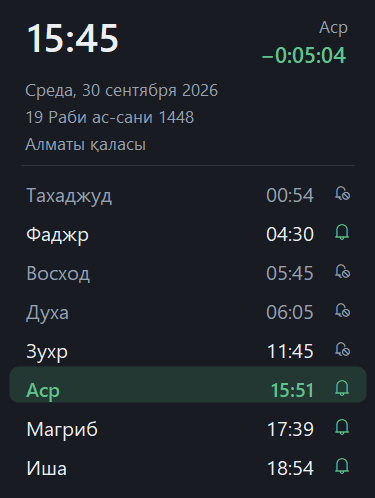
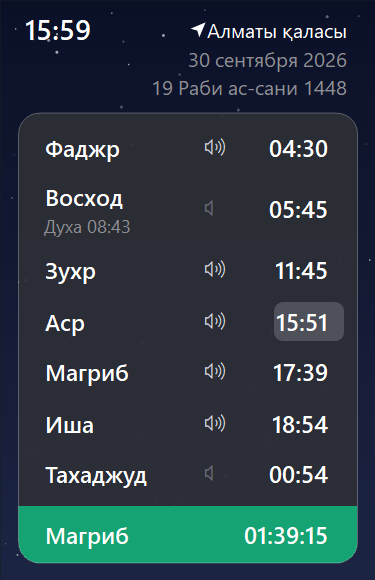
Widget styled like KZ mobile prayer apps; Duha = quarter of daylight
Night-sky background, grey card, speaker toggles, current prayer pill,
green next-prayer bar with countdown, Duha as sub-line under sunrise,
Tahajjud last. Duha now sunrise + (sunset - sunrise) / 4.

diff --git a/Widget.cs b/Widget.cs
@@ -88,9 +88,37 @@ public class Widget : Form
         if (IsHandleCreated) Relayout();
     }
 
+    /// One line of the prayer card; Sunrise carries Duha as a sub-line like the KZ mobile apps.
+    record Row(P P, DateTime At, DateTime? Duha)
+    {
+        public int H => Duha == null ? 34 : 48;
+    }
+    List<Row> rows = [];
+    P? current;
+
+    static DateTime? Find(List<(P P, DateTime At)>? l, P p) => l?.Where(x => x.P == p).Select(x => (DateTime?)x.At).FirstOrDefault();
+
+    void BuildRows(DateTime now)
+    {
+        rows = [];
+        current = null;
+        if (today == null) return;
+        void Add(P p, DateTime? t, DateTime? duha = null) { if (t is { } v && IsShown(p)) rows.Add(new(p, v, duha)); }
+        var duhaSub = IsShown(P.Sunrise) && IsShown(P.Duha);
+        Add(P.Fajr, Find(today, P.Fajr));
+        Add(P.Sunrise, Find(today, P.Sunrise), duhaSub ? Find(today, P.Duha) : null);
+        if (!IsShown(P.Sunrise)) Add(P.Duha, Find(today, P.Duha));
+        foreach (var p in new[] { P.Dhuhr, P.Asr, P.Maghrib, P.Isha }) Add(p, Find(today, p));
+        // Tahajjud goes last: tonight's, unless we are still in the night before today's Fajr.
+        var tomorrow = Data.Times(DateOnly.FromDateTime(now).AddDays(1), Get, s);
+        Add(P.Tahajjud, now < Find(today, P.Fajr) ? Find(today, P.Tahajjud) : Find(tomorrow, P.Tahajjud));
+        // Current period = last passed time today (Duha is a sub-line, not a period); before the first one it's still Isha.
+        current = today.LastOrDefault(x => x.P != P.Duha && x.At <= now) is { At.Year: > 1 } c ? c.P : P.Isha;
+    }
+
     int HeaderLines => 3 + (holiday != null ? 1 : 0);
-    int Rows => Enum.GetValues<P>().Count(IsShown);
-    int ContentHeight => 52 + HeaderLines * 18 + 10 + Math.Max(Rows, 2) * 26 + 8; // at 96 dpi, zoom 100
+    int CardHeight => 6 + Math.Max(rows.Sum(r => r.H), 60) + 4 + 38;
+    int ContentHeight => 10 + HeaderLines * 19 + 8 + CardHeight + 12; // at 96 dpi, zoom 100
     Size SizeFor() => new(Zi(BaseWidth), Zi(ContentHeight));
 
     void Relayout()
@@ -155,12 +183,14 @@ public class Widget : Form
         var date = DateOnly.FromDateTime(now);
         today = Data.Times(date, Get, s);
         next = Data.Next(now, Get, IsShown, s);
+        var height = ContentHeight;
         if (date != shownDate)
         {
             shownDate = date;
             holiday = Hijri.On(date, s.HijriAdjust);
-            if (IsHandleCreated) Relayout();
         }
+        BuildRows(now);
+        if (ContentHeight != height && IsHandleCreated) Relayout();
 
         // Fire alerts for moments crossed since last tick; skip stale ones (e.g. after sleep).
         bool Crossed(DateTime t) => lastTick < t && t <= now && now - t < TimeSpan.FromMinutes(5);
@@ -204,76 +234,114 @@ public class Widget : Form
         catch { /* offline or rate-limited: try again tomorrow */ }
     }
 
-    static string Fmt(TimeSpan t) => $"{(int)t.TotalHours}:{t.Minutes:00}:{t.Seconds:00}";
+    static string Fmt(TimeSpan t) => $"{(int)t.TotalHours:00}:{t.Minutes:00}:{t.Seconds:00}";
+
+    // Palette of the KZ mobile prayer apps: night-sky background, grey card, green "next" bar.
+    static readonly Color Sky1 = Color.FromArgb(10, 16, 38), Sky2 = Color.FromArgb(27, 36, 66);
+    static readonly Color CardFill = Color.FromArgb(242, 44, 46, 54), CardBorder = Color.FromArgb(70, 255, 255, 255);
+    static readonly Color Pill = Color.FromArgb(78, 80, 90), Green = Color.FromArgb(22, 163, 116);
+    static readonly Color Grey = Color.FromArgb(142, 142, 147), Speaker = Color.FromArgb(128, 131, 138);
 
     protected override void OnPaint(PaintEventArgs e)
     {
         var g = e.Graphics;
         g.SmoothingMode = SmoothingMode.AntiAlias;
-        using var small = F(8.5f);
-        using var normal = F(10f);
-        using var bold = F(10f, FontStyle.Bold);
-        using var clock = F(20f, FontStyle.Bold);
-        using var countdown = F(11f, FontStyle.Bold);
-        using var icons = new Font("Segoe MDL2 Assets", 9f * EZ / 100f);
+        using var head = F(10f);
+        using var small = F(9f);
+        using var name = F(11.5f, FontStyle.Bold);
+        using var time = F(12f, FontStyle.Bold);
+        using var clock = F(14f, FontStyle.Bold);
+        using var icons = new Font("Segoe MDL2 Assets", 10f * EZ / 100f);
+        var now = DateTime.Now;
+        const TextFormatFlags Right = TextFormatFlags.Right | TextFormatFlags.VerticalCenter;
+        const TextFormatFlags Left = TextFormatFlags.Left | TextFormatFlags.VerticalCenter | TextFormatFlags.EndEllipsis;
+
+        // Background: gradient night sky with a few fixed stars.
+        using (var sky = new LinearGradientBrush(ClientRectangle, Sky1, Sky2, 90f)) g.FillRectangle(sky, ClientRectangle);
+        var rnd = new Random(7);
+        var starCount = ClientSize.Width * ClientSize.Height / Math.Max(1, Zi(38) * Zi(38));
+        for (int i = 0; i < starCount; i++)
+        {
+            var d = Z(0.8f + (float)rnd.NextDouble() * 1.6f);
+            using var star = new SolidBrush(Color.FromArgb(rnd.Next(50, 170), Color.White));
+            g.FillEllipse(star, (float)rnd.NextDouble() * ClientSize.Width, (float)rnd.NextDouble() * ClientSize.Height, d, d);
+        }
+
         // Content is BaseWidth wide; in fullscreen it is scaled up and centred on the screen.
         int cw = Zi(BaseWidth), ox = (ClientSize.Width - cw) / 2, oy = full ? (ClientSize.Height - Zi(ContentHeight)) / 2 : 0;
-        int left = ox + Zi(14), right = ox + cw - Zi(14);
-        var now = DateTime.Now;
+        float left = ox + Z(14), right = ox + cw - Z(14);
 
-        TextRenderer.DrawText(g, now.ToString("HH:mm"), clock, new Point(left - Zi(2), oy + Zi(6)), Theme.Text);
-        if (next is { } n)
+        // Header: clock on the left; location, dates and holiday right-aligned.
+        TextRenderer.DrawText(g, now.ToString("HH:mm"), clock, new Point((int)left - Zi(2), oy + Zi(6)), Color.White);
+        float y = oy + Z(10);
+        var city = s.City.Title + (s.Muted ? " 🔕" : "");
+        var cityW = TextRenderer.MeasureText(g, city, head, Size.Empty, TextFormatFlags.NoPadding).Width;
+        TextRenderer.DrawText(g, city, head, Rectangle.Round(new RectangleF(left, y, right - left, Z(19))), Color.White, Right | TextFormatFlags.EndEllipsis);
+        // Location arrow (like iOS "location.fill"); Segoe MDL2 has no such glyph.
+        float ax = right - cityW - Z(19), ay = y + Z(4.5f), a = Z(10);
+        using (var arrow = new SolidBrush(Color.White))
+            g.FillPolygon(arrow, new PointF[] { new(ax + a, ay), new(ax, ay + a * 0.42f), new(ax + a * 0.45f, ay + a * 0.55f), new(ax + a * 0.58f, ay + a) });
+        y += Z(19);
+        var date = now.ToString(L.Lang == "ru" ? "d MMMM yyyy" : "d MMMM, yyyy", L.Culture);
+        if (L.Lang != "ru") { var sp = date.IndexOf(' ') + 1; date = date[..sp] + char.ToUpper(date[sp], L.Culture) + date[(sp + 1)..]; }
+        var lines = new List<(string Text, Color Color)> { (date, Grey), (Hijri.Format(DateOnly.FromDateTime(now), s.HijriAdjust), Grey) };
+        if (holiday != null) lines.Add(("✦ " + L.T(holiday.Key), Theme.Accent));
+        foreach (var (text, color) in lines)
         {
-            TextRenderer.DrawText(g, L.Name(n.P), small, new Rectangle(ox, oy + Zi(10), right - ox, Zi(18)), Theme.Muted, TextFormatFlags.Right);
-            TextRenderer.DrawText(g, "−" + Fmt(n.At - now), countdown, new Rectangle(ox, oy + Zi(26), right - ox, Zi(22)), Theme.Accent, TextFormatFlags.Right);
+            TextRenderer.DrawText(g, text, head, Rectangle.Round(new RectangleF(left, y, right - left, Z(19))), color, Right | TextFormatFlags.EndEllipsis);
+            y += Z(19);
         }
+        y += Z(8);
 
-        float y = oy + Z(52);
-        void Line(string text, Color c)
-        {
-            TextRenderer.DrawText(g, text, small, new Rectangle(left, (int)y, right - left, Zi(18)), c, TextFormatFlags.EndEllipsis);
-            y += Z(18);
-        }
-        var greg = now.ToString("dddd, d MMMM yyyy", L.Culture);
-        Line(char.ToUpper(greg[0], L.Culture) + greg[1..], Theme.Muted);
-        Line(Hijri.Format(DateOnly.FromDateTime(now), s.HijriAdjust), Theme.Muted);
-        Line(s.City.Title + (s.Muted ? "  ·  🔕" : ""), Theme.Muted);
-        if (holiday != null) Line("✦ " + L.T(holiday.Key), Theme.Accent);
-
-        y += Z(4);
-        using (var pen = new Pen(Theme.Line, Math.Max(1, Z(1)))) g.DrawLine(pen, left, y, right, y);
-        y += Z(6);
-
+        // Card with prayer rows.
+        var card = new RectangleF(ox + Z(12), y, cw - Z(24), Z(CardHeight));
+        using var cardPath = Theme.RoundRect(card, Z(14));
+        using (var fill = new SolidBrush(CardFill)) g.FillPath(fill, cardPath);
+        float rx = card.X + Z(14), rr = card.Right - Z(14), ry = card.Y + Z(6);
         bells.Clear();
         if (today == null)
-            TextRenderer.DrawText(g, L.T("NoData"), normal, new Point(left, (int)y), Theme.Text);
-        var rowH = Z(26);
-        var bellW = Z(22);
-        foreach (var (p, t) in (today ?? []).Where(x => IsShown(x.P)))
+            TextRenderer.DrawText(g, L.T("NoData"), small, Rectangle.Round(new RectangleF(rx, ry, rr - rx, Z(60))), Color.White, Left);
+        foreach (var r in rows)
         {
-            var isNext = next is { } nn && nn.P == p && nn.At == t;
-            if (isNext)
+            var h = Z(r.H);
+            if (r.Duha is { } duha)
             {
-                using var b = new SolidBrush(Color.FromArgb(40, Theme.Accent));
-                using var path = Theme.RoundRect(new RectangleF(ox + Z(6), y - Z(2), cw - Z(12), rowH - Z(2)), Z(6));
-                g.FillPath(b, path);
+                TextRenderer.DrawText(g, L.Name(r.P), name, Rectangle.Round(new RectangleF(rx, ry + Z(4), rr - rx, Z(24))), Color.White, Left);
+                TextRenderer.DrawText(g, $"{L.Name(P.Duha)} {duha:HH:mm}", small, Rectangle.Round(new RectangleF(rx, ry + Z(26), rr - rx, Z(18))), Grey, Left);
             }
-            var main = p is P.Fajr or P.Dhuhr or P.Asr or P.Maghrib or P.Isha;
-            var color = isNext ? Theme.Accent : main ? Theme.Text : Theme.Muted;
-            var font = isNext ? bold : normal;
-            var row = new Rectangle(left, (int)y, right - left, (int)rowH);
-            TextRenderer.DrawText(g, L.Name(p), font, row, color, TextFormatFlags.VerticalCenter);
-            TextRenderer.DrawText(g, t.ToString("HH:mm"), font, new Rectangle(row.X, row.Y, (int)(row.Width - bellW), row.Height), color,
-                TextFormatFlags.Right | TextFormatFlags.VerticalCenter);
+            else TextRenderer.DrawText(g, L.Name(r.P), name, Rectangle.Round(new RectangleF(rx, ry, rr - rx, h)), Color.White, Left);
 
-            // Bell: click toggles this prayer's notification.
-            var on = s.Alerts.Contains(p);
-            var bell = new RectangleF(right - bellW + Z(4), y, bellW, rowH);
-            TextRenderer.DrawText(g, on ? "" : "", icons, Rectangle.Round(bell), // Ringer / RingerSilent
-                on && !s.Muted ? Theme.Accent : Color.FromArgb(110, Theme.Muted), TextFormatFlags.HorizontalCenter | TextFormatFlags.VerticalCenter);
-            bells.Add((bell, p));
-            y += rowH;
+            var t = r.At.ToString("HH:mm");
+            if (r.P == current)
+            {
+                var tw = TextRenderer.MeasureText(g, t, time, Size.Empty, TextFormatFlags.NoPadding).Width;
+                var ph = Z(26);
+                using var pill = Theme.RoundRect(new RectangleF(rr - tw - Z(7), ry + (h - ph) / 2, tw + Z(12), ph), Z(6));
+                using var pb = new SolidBrush(Pill);
+                g.FillPath(pb, pill);
+            }
+            TextRenderer.DrawText(g, t, time, Rectangle.Round(new RectangleF(rx, ry, rr - rx, h)), Color.White, Right);
+
+            // Speaker: click toggles this prayer's notification.
+            var on = s.Alerts.Contains(r.P);
+            var icon = new RectangleF(rr - Z(92), ry, Z(24), h);
+            TextRenderer.DrawText(g, on ? "" : "", icons, Rectangle.Round(icon), // Volume3 / Volume0
+                on && !s.Muted ? Color.FromArgb(205, 208, 214) : Speaker, TextFormatFlags.HorizontalCenter | TextFormatFlags.VerticalCenter);
+            bells.Add((icon, r.P));
+            ry += h;
         }
+
+        // Green bar: next prayer and countdown, clipped to the card's rounded bottom.
+        if (next is { } n)
+        {
+            var bar = new RectangleF(card.X, card.Bottom - Z(38), card.Width, Z(38));
+            g.SetClip(cardPath);
+            using (var gb = new SolidBrush(Green)) g.FillRectangle(gb, bar);
+            g.ResetClip();
+            TextRenderer.DrawText(g, L.Name(n.P), name, Rectangle.Round(new RectangleF(rx, bar.Y, rr - rx, bar.Height)), Color.White, Left);
+            TextRenderer.DrawText(g, Fmt(n.At - now), time, Rectangle.Round(new RectangleF(rx, bar.Y, rr - rx, bar.Height)), Color.White, Right);
+        }
+        using (var border = new Pen(CardBorder, Math.Max(1, Z(1)))) g.DrawPath(border, cardPath);
 
         // Window buttons (minimize / fullscreen / close) appear while the mouse is over the widget.
         var bw = full ? Theme.Dp(46) : Z(26);
@@ -281,13 +349,13 @@ public class Widget : Form
         for (int i = 0; i < 3; i++) captions[i] = new RectangleF(ClientSize.Width - (3 - i) * bw, 0, bw, bh);
         if (!hover) return;
         using var capFont = new Font("Segoe MDL2 Assets", full ? 8f : 7f * EZ / 100f);
-        using (var bg = new SolidBrush(Theme.Bg)) g.FillRectangle(bg, captions[0].X, 0, 3 * bw, bh);
+        using (var bg = new SolidBrush(Sky1)) g.FillRectangle(bg, captions[0].X, 0, 3 * bw, bh);
         string[] glyphs = ["", full ? "" : "", ""]; // ChromeMinimize, ChromeRestore/Maximize, ChromeClose
         for (int i = 0; i < 3; i++)
         {
             if (i == hot)
                 using (var hb = new SolidBrush(i == 2 ? Color.FromArgb(196, 43, 28) : Theme.Line)) g.FillRectangle(hb, captions[i]);
-            TextRenderer.DrawText(g, glyphs[i], capFont, Rectangle.Round(captions[i]), i == hot ? Color.White : Theme.Muted,
+            TextRenderer.DrawText(g, glyphs[i], capFont, Rectangle.Round(captions[i]), i == hot ? Color.White : Grey,
                 TextFormatFlags.HorizontalCenter | TextFormatFlags.VerticalCenter);
         }
     }

diff --git a/Program.cs b/Program.cs
@@ -34,6 +34,7 @@ public class Day
     public string Date { get; set; } = "";
     public string Fajr { get; set; } = "";
     public string Sunrise { get; set; } = "";
+    public string Sunset { get; set; } = "";
     public string Dhuhr { get; set; } = "";
     public string Asr { get; set; } = "";
     public string Maghrib { get; set; } = "";
@@ -51,9 +52,6 @@ public static class Data
     };
     static readonly HttpClient Http = new() { BaseAddress = new("https://api.muftyat.kz/"), Timeout = TimeSpan.FromSeconds(10) };
     // ponytail: sync fetch on the UI thread, once per city+year (cached to disk); go async if the startup freeze bothers anyone.
-
-    // Duha starts once the sun is a spear's length up; 20 min after sunrise is the common KZ convention.
-    static readonly TimeSpan DuhaAfterSunrise = TimeSpan.FromMinutes(20);
 
     public static Settings LoadSettings()
     {
@@ -121,6 +119,7 @@ public static class Data
 
     /// All times of a calendar day in order, with madhab and manual offsets applied.
     /// Tahajjud = start of the last third of the night that ends at this day's Fajr.
+    /// Duha = a quarter of the daylight after sunrise (the preferred Duha time, as KZ apps show it).
     public static List<(P P, DateTime At)>? Times(DateOnly date, Func<DateOnly, Day?> getDay, Settings? s = null)
     {
         if (getDay(date) is not { } d) return null;
@@ -134,7 +133,7 @@ public static class Data
         if (getDay(date.AddDays(-1)) is { } y && At(date.AddDays(-1), y.Maghrib) + Off(P.Maghrib) is var m)
             list.Add((P.Tahajjud, CeilMinute(m + (fajr - m) * 2 / 3) + Off(P.Tahajjud)));
         list.AddRange([
-            (P.Fajr, fajr), (P.Sunrise, sunrise), (P.Duha, sunrise + DuhaAfterSunrise + Off(P.Duha)),
+            (P.Fajr, fajr), (P.Sunrise, sunrise), (P.Duha, CeilMinute(sunrise + (At(date, d.Sunset) - sunrise) / 4) + Off(P.Duha)),
             (P.Dhuhr, At(date, d.Dhuhr) + Off(P.Dhuhr)), (P.Asr, asr),
             (P.Maghrib, At(date, d.Maghrib) + Off(P.Maghrib)), (P.Isha, At(date, d.Isha) + Off(P.Isha)),
         ]);
@@ -187,7 +186,7 @@ static class Program
 
     static int SelfTest()
     {
-        var d = new Day { Fajr = "05:00", Sunrise = "06:30", Dhuhr = "12:00", Asr = "15:00", Maghrib = "18:00", Isha = "19:30" };
+        var d = new Day { Fajr = "05:00", Sunrise = "06:30", Sunset = "18:30", Dhuhr = "12:00", Asr = "15:00", Maghrib = "18:00", Isha = "19:30" };
         Day? Get(DateOnly _) => d;
         bool All(P _) => true;
         var day = new DateOnly(2026, 12, 31);
@@ -195,7 +194,7 @@ static class Program
 
         var times = Data.Times(day, Get)!;
         Trace.Assert(times[0] == (P.Tahajjud, T(1, 20)), "18:00→05:00 is 11h, last third starts at 01:20");
-        Trace.Assert(times[3] == (P.Duha, T(6, 50)));
+        Trace.Assert(times[3] == (P.Duha, T(9, 30)), "06:30 + (18:30 − 06:30) / 4");
         Trace.Assert(Data.Next(T(0, 0), Get, All) == (P.Tahajjud, T(1, 20)));
         Trace.Assert(Data.Next(T(12, 0), Get, All) == (P.Asr, T(15, 0)), "exactly at time -> next one");
         Trace.Assert(Data.Next(T(20, 0), Get, All) == (P.Tahajjud, T(1, 20, 1)), "rolls to tomorrow");

diff --git a/Strings.cs b/Strings.cs
@@ -20,10 +20,10 @@ public static class L
 
     static readonly Dictionary<string, (string Kk, string Ru, string En)> S = new()
     {
-        [nameof(P.Tahajjud)] = ("Тәһажжуд", "Тахаджуд", "Tahajjud"),
+        [nameof(P.Tahajjud)] = ("Таһажуд", "Тахаджуд", "Tahajjud"),
         [nameof(P.Fajr)] = ("Таң", "Фаджр", "Fajr"),
-        [nameof(P.Sunrise)] = ("Күн шығуы", "Восход", "Sunrise"),
-        [nameof(P.Duha)] = ("Дұха", "Духа", "Duha"),
+        [nameof(P.Sunrise)] = ("Күн", "Восход", "Sunrise"),
+        [nameof(P.Duha)] = ("Духа", "Духа", "Duha"),
         [nameof(P.Dhuhr)] = ("Бесін", "Зухр", "Dhuhr"),
         [nameof(P.Asr)] = ("Екінті", "Аср", "Asr"),
         [nameof(P.Maghrib)] = ("Ақшам", "Магриб", "Maghrib"),

diff --git a/README.md b/README.md
@@ -23,7 +23,7 @@
 ### Как считаются дополнительные времена
 
 - **Тахаджуд** — начало последней трети ночи (Магриб → Фаджр).
-- **Духа** — через 20 минут после восхода.
+- **Духа** — четверть светового дня после восхода: восход + (закат − восход) / 4.
 - **Аср не-ханафи** — время ДУМК минус астрономическая разница между тенью 2× и 1×.
 - **Хиджра** — календарь Умм аль-Кура; в настройках есть поправка ±2 дня под объявления ДУМК.
 
